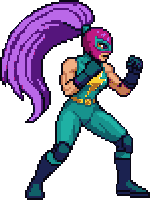
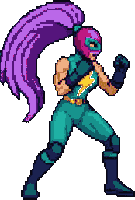
Idle desde una hoja unica de 20 poses
Los 20 frames salen de una sola imagen de 5x4: mismo lienzo 200x300,
misma escala y misma linea de suelo por construccion. Se acaba la
normalizacion por frame, que era lo que descuadraba tamanos y recortes.
El aire va dentro del lienzo, sin lift.

Changed region(s): [[0.0, 0.0, 1.0, 1.0], [0.4741, 0.54, 0.5037, 0.6], [0.3852, 0.09, 0.4444, 0.12]]

diff --git a/preview/nueva.html b/preview/nueva.html
@@ -55,7 +55,7 @@
   <div class="box">
     <p class="warn" id="warn">Cargando…</p>
     <div class="scroller" id="scroller">
-      <canvas id="sprite" width="190" height="212"></canvas>
+      <canvas id="sprite" width="200" height="300"></canvas>
     </div>
     <p class="cap" id="cap"></p>
     <div class="controls">
@@ -121,7 +121,7 @@
   const H = 1024;
   // ?v= para que el navegador no sirva el PNG viejo de esta misma ruta
   // El sprite de juego: 150 x 200, la altura nativa del ring. Se dibuja 1:1.
-  window.STAGE_FIGHTER = '../voltia/nueva/00_stand.png?v=1';
+  window.STAGE_FIGHTER = '../voltia/nueva/00.png?v=7';
   // Suelo en el centro del rombo dibujado (spec.floorY es 408, el borde trasero).
   window.STAGE_FLOOR_Y = 426;
   // El archivo no se toca. El escenario lo dibuja a la escala que se elija.
@@ -129,7 +129,7 @@
   window.__MODE = q;
 })();
 </script>
-<script src="stage.js?v=6"></script>
+<script src="stage.js?v=7"></script>
 <script>
 (() => {
   const note = document.getElementById('modeNote');
@@ -253,7 +253,7 @@
     FRAMES = guide.idle.frames;
     for (let k = 0; k < FRAMES.length; k++) {
       const im = new Image();
-      im.src = '../voltia/nueva/' + FRAMES[k].file + '?v=1';
+      im.src = '../voltia/nueva/' + FRAMES[k].file + '?v=7';
       await im.decode();
       imgs.push(im);
     }
